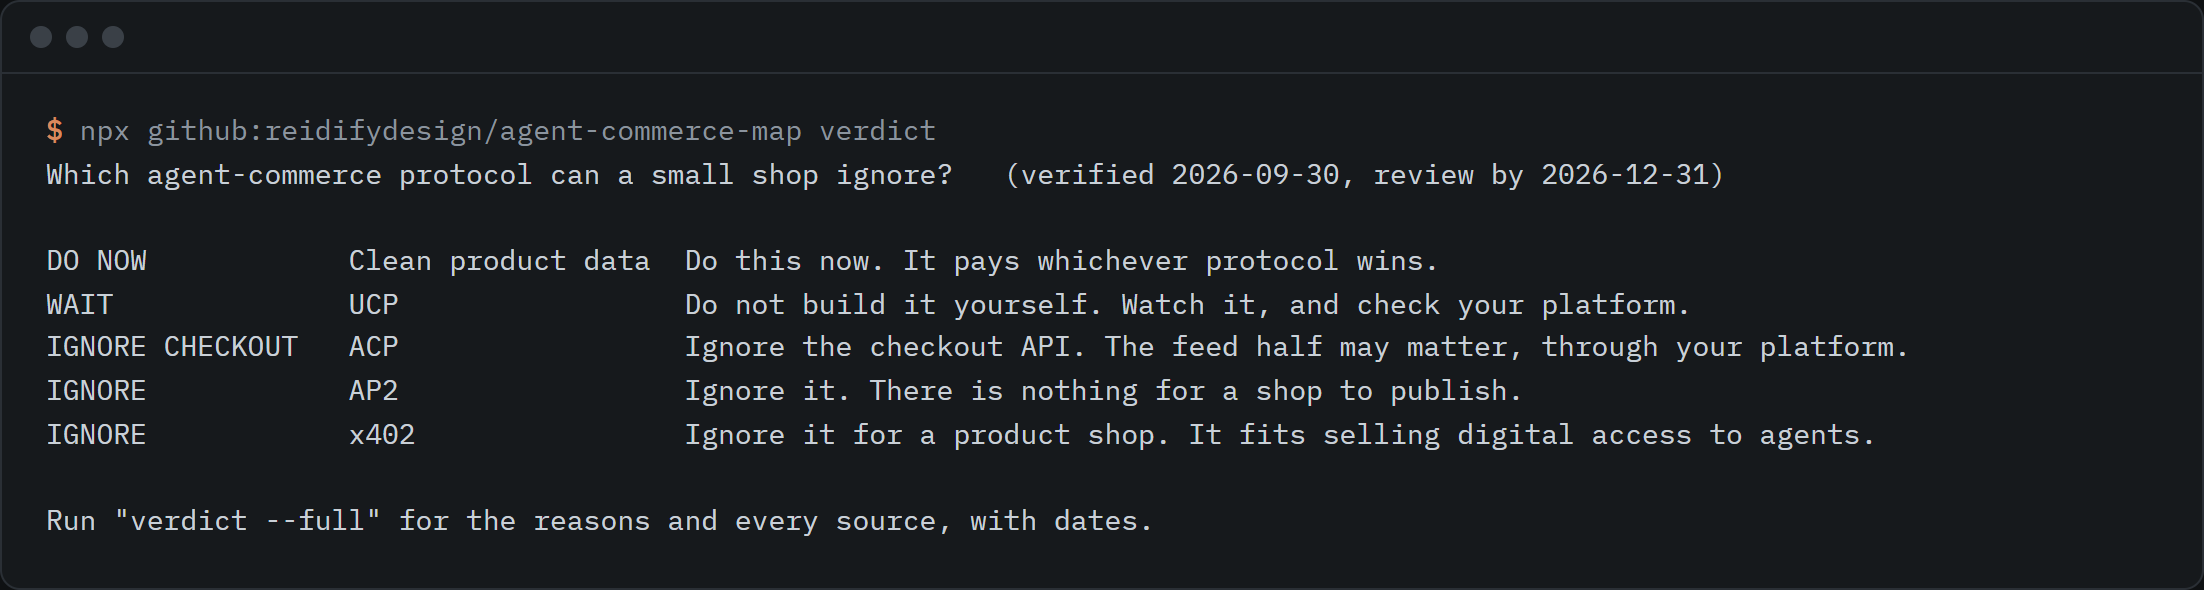
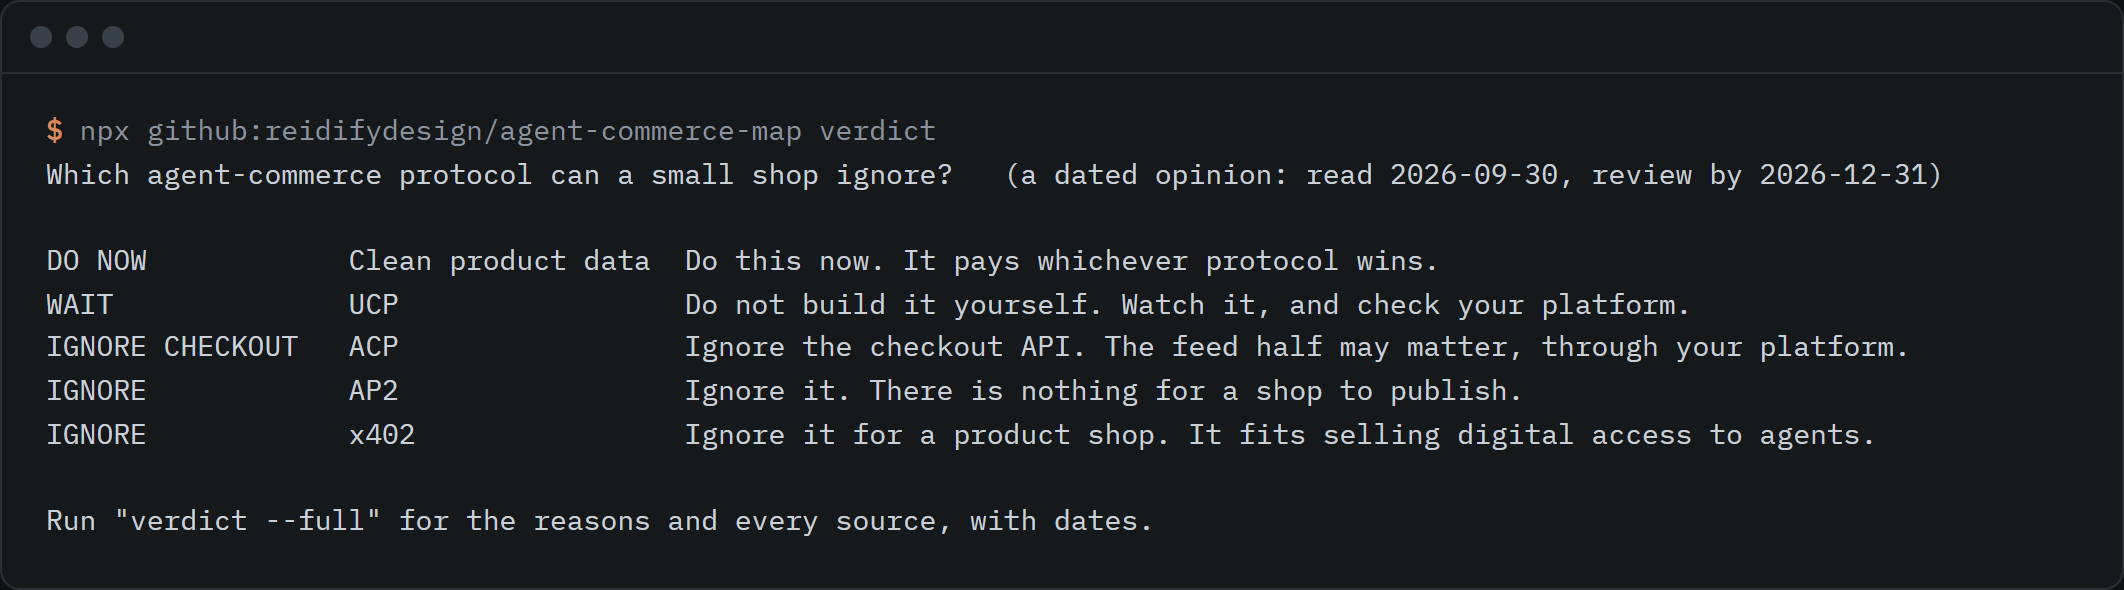
Headline says crosswalk of three descriptions, verdict says it is a dated opinion
README headline and first paragraph, and the package description, now say the
repo maps three descriptions of one product record and does not claim that
schema.org feeds ACP or UCP. The verdict header, the --full text and
docs/WHICH-PROTOCOL.md carry the read date, the review date and the words
dated opinion. The verdict text itself is unchanged. verdict.png is
regenerated from a real run.

diff --git a/README.md b/README.md
@@ -1,6 +1,6 @@
 # agent-commerce-map
 
-A dated crosswalk of ACP, UCP and schema.org Product fields, with a plain verdict on which agent-commerce protocol a small shop can ignore.
+A crosswalk of three descriptions of the same product record: ACP, UCP and schema.org Product. It maps field to field. It does not show that schema.org markup feeds ACP or UCP, because neither specification says it does. A dated opinion on which agent-commerce protocol a small shop can ignore sits alongside.
 
 ![The verdict command run in a terminal, listing five routes: clean product data to do now, UCP to wait on, ACP checkout to ignore, AP2 and x402 to ignore](docs/verdict.png)
 
@@ -18,7 +18,7 @@ When this was started on 2026-09-30, searches turned up protocol-level compariso
 
 Two things to know up front:
 
-- The answer for most small shops is short: keep one accurate product record, let your platform do the protocol work, and do not build checkout endpoints. The reasons and the sources, with dates, are in [docs/WHICH-PROTOCOL.md](docs/WHICH-PROTOCOL.md).
+- The verdict is a dated opinion, read on 2026-09-30 and due for review by 2026-12-31, not a fact about the protocols. The answer it gives for most small shops is short: keep one accurate product record, let your platform do the protocol work, and do not build checkout endpoints. The reasons and the sources, with dates, are in [docs/WHICH-PROTOCOL.md](docs/WHICH-PROTOCOL.md).
 - Neither the ACP nor the UCP specification mentions schema.org or JSON-LD (searched 2026-09-30). Both take product data through feeds or a merchant account. So this crosswalk maps three descriptions of the same product record. It is not evidence that an agent reads your page markup into either protocol.
 
 ## Use it

diff --git a/docs/WHICH-PROTOCOL.md b/docs/WHICH-PROTOCOL.md
@@ -1,10 +1,10 @@
 # Which agent-commerce protocol can a small shop ignore?
 
-Verified 2026-09-30. Review by 2026-12-31. Generated from `data/verdict.json` by `npm run docs`. Do not edit by hand.
+A dated opinion. Read 2026-09-30, review by 2026-12-31. Generated from `data/verdict.json` by `npm run docs`. Do not edit by hand.
 
 A small shop here means a business that sells products online through a hosted platform (Shopify, WooCommerce, Etsy, Wix and the like), has no developers on staff, and does not want to run its own checkout API.
 
-This is one reading of dated public sources, not a guarantee and not financial advice. Each claim carries the page it came from and the date it was read. Protocols change, so check the date before you act.
+This is a dated opinion, not a guarantee and not financial advice. It is one reading of public sources, made on the read date above and due for review on the review date above. Each claim carries the page it came from and the date it was read. Protocols change, so check the date before you act.
 
 ## The short answer
 
